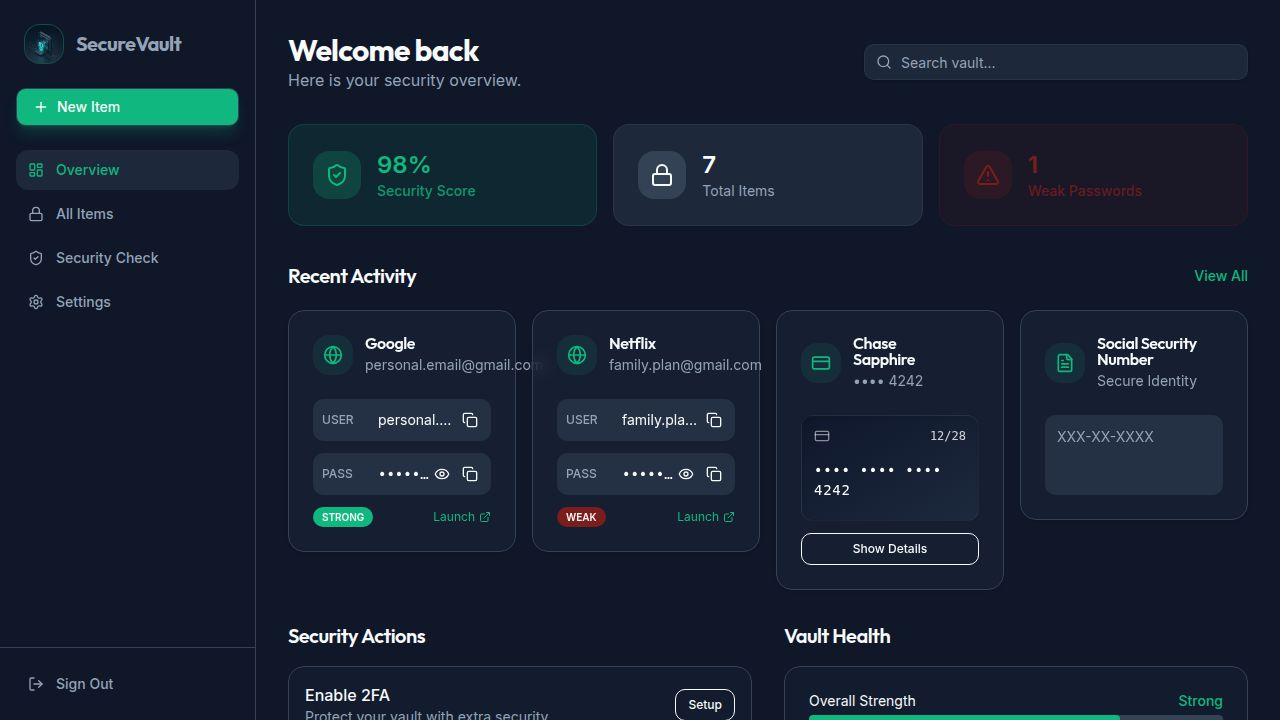
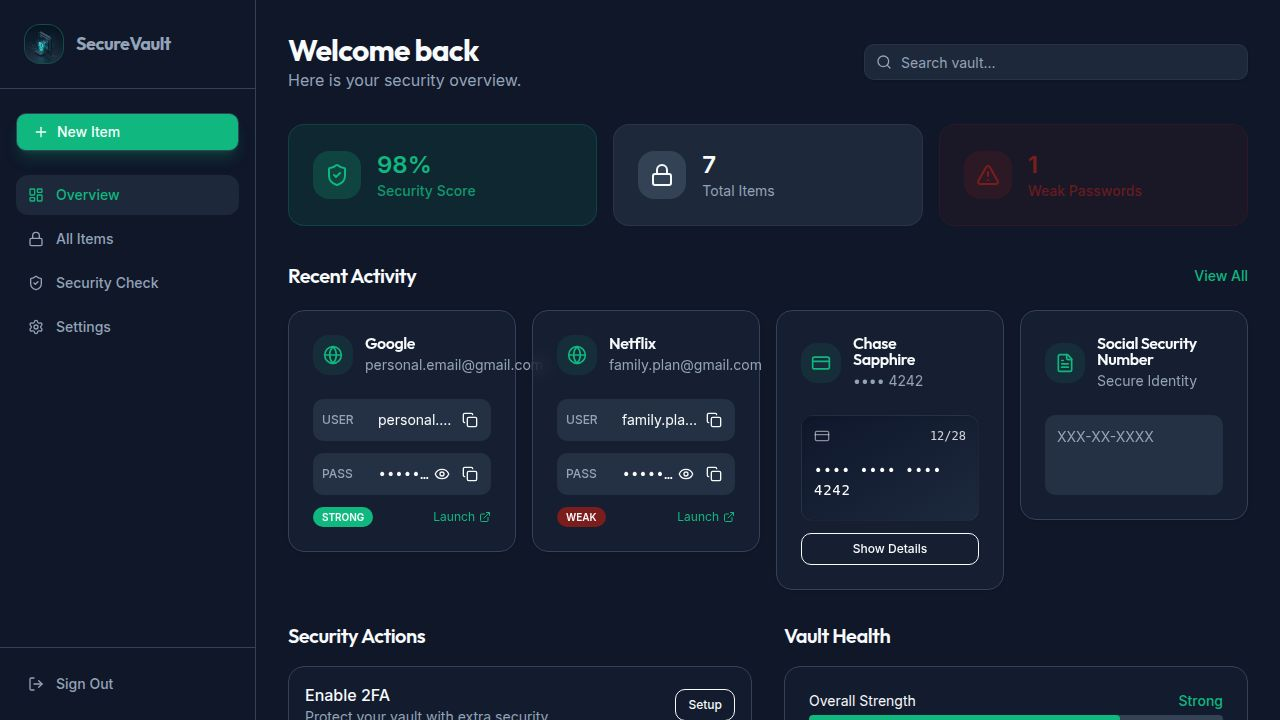
Improve app layout and add functionality to create new items
Integrates an "Add Item" dialog directly into the layout component, refactors sidebar styling to display only the company name, and applies general layout improvements with enhanced visual spacing and borders.

Replit-Commit-Author: Agent
Replit-Commit-Session-Id: 6a2e4771-7680-4b20-bc37-a2bd3f0f02e9
Replit-Commit-Checkpoint-Type: full_checkpoint
Replit-Commit-Event-Id: 6598bca5-cb5f-411d-8bcd-f0eb7fd62443
Replit-Commit-Screenshot-Url: https://storage.googleapis.com/screenshot-production-us-central1/f469e086-288b-45ee-9041-62a81bcc927c/6a2e4771-7680-4b20-bc37-a2bd3f0f02e9/f965USG
Replit-Helium-Checkpoint-Created: true

Changed region(s): [[0.0, 0.1222, 0.1875, 0.4583], [0.0625, 0.0306, 0.1562, 0.0917]]

diff --git a/client/src/components/layout.tsx b/client/src/components/layout.tsx
@@ -7,17 +7,26 @@ import {
   Settings, 
   LogOut, 
   Menu,
-  X,
-  Plus
+  Plus,
+  X
 } from "lucide-react";
 import { Button } from "@/components/ui/button";
 import { Sheet, SheetContent } from "@/components/ui/sheet";
+import { Dialog, DialogContent, DialogDescription, DialogHeader, DialogTitle } from "@/components/ui/dialog";
+import { Input } from "@/components/ui/input";
+import { Label } from "@/components/ui/label";
+import { Select, SelectContent, SelectItem, SelectTrigger, SelectValue } from "@/components/ui/select";
 import { cn } from "@/lib/utils";
+import { useToast } from "@/hooks/use-toast";
 import vaultImage from "@assets/generated_images/abstract_cybersecurity_vault_lock_concept.png";
 
 export default function Layout({ children }: { children: React.ReactNode }) {
   const [location] = useLocation();
   const [isMobileOpen, setIsMobileOpen] = useState(false);
+  const [isAddDialogOpen, setIsAddDialogOpen] = useState(false);
+  const [itemType, setItemType] = useState("login");
+  const [title, setTitle] = useState("");
+  const { toast } = useToast();
 
   const navigation = [
     { name: "Overview", href: "/", icon: LayoutDashboard },
@@ -26,19 +35,46 @@ export default function Layout({ children }: { children: React.ReactNode }) {
     { name: "Settings", href: "/settings", icon: Settings },
   ];
 
+  const handleSubmit = (e: React.FormEvent) => {
+    e.preventDefault();
+    if (!title.trim()) {
+      toast({
+        title: "Error",
+        description: "Please enter a title for your item.",
+        variant: "destructive",
+      });
+      return;
+    }
+
+    toast({
+      title: "Success",
+      description: `New ${itemType} item "${title}" created!`,
+    });
+    
+    setTitle("");
+    setItemType("login");
+    setIsAddDialogOpen(false);
+  };
+
   const SidebarContent = () => (
     <div className="flex flex-col h-full bg-sidebar border-r border-sidebar-border">
-      <div className="p-6 flex items-center gap-3">
-        <div className="h-10 w-10 rounded-xl bg-primary/20 flex items-center justify-center border border-primary/20 overflow-hidden">
-             <img src={vaultImage} alt="Logo" className="w-full h-full object-cover opacity-80" />
+      <div className="p-6 flex items-center gap-3 border-b border-sidebar-border">
+        <div className="h-10 w-10 rounded-xl bg-primary/20 flex items-center justify-center border border-primary/20 overflow-hidden shrink-0">
+          <img src={vaultImage} alt="Logo" className="w-full h-full object-cover opacity-80" />
         </div>
-        <span className="font-heading font-bold text-xl tracking-tight text-sidebar-foreground">
+        <span className="font-heading font-bold text-lg tracking-tight text-sidebar-foreground">
           SecureVault
         </span>
       </div>
 
-      <div className="px-4 mb-6">
-        <Button className="w-full justify-start gap-2 bg-primary hover:bg-primary/90 text-primary-foreground shadow-lg shadow-primary/20 transition-all hover:scale-[1.02]">
+      <div className="px-4 py-6">
+        <Button 
+          onClick={() => {
+            setIsAddDialogOpen(true);
+            setIsMobileOpen(false);
+          }}
+          className="w-full justify-start gap-2 bg-primary hover:bg-primary/90 text-primary-foreground shadow-lg shadow-primary/20 transition-all hover:scale-[1.02]"
+        >
           <Plus className="h-4 w-4" />
           New Item
         </Button>
@@ -59,8 +95,8 @@ export default function Layout({ children }: { children: React.ReactNode }) {
               )}
               onClick={() => setIsMobileOpen(false)}
             >
-                <item.icon className={cn("h-4 w-4", isActive ? "text-primary" : "text-muted-foreground")} />
-                {item.name}
+              <item.icon className={cn("h-4 w-4", isActive ? "text-primary" : "text-muted-foreground")} />
+              {item.name}
             </Link>
           );
         })}
@@ -95,7 +131,7 @@ export default function Layout({ children }: { children: React.ReactNode }) {
         <header className="md:hidden h-16 border-b border-border flex items-center justify-between px-4 bg-background/50 backdrop-blur-md sticky top-0 z-40">
           <div className="flex items-center gap-2">
             <div className="h-8 w-8 rounded-lg bg-primary/20 flex items-center justify-center border border-primary/20 overflow-hidden">
-                <img src={vaultImage} alt="Logo" className="w-full h-full object-cover" />
+              <img src={vaultImage} alt="Logo" className="w-full h-full object-cover" />
             </div>
             <span className="font-heading font-bold text-lg">SecureVault</span>
           </div>
@@ -104,10 +140,118 @@ export default function Layout({ children }: { children: React.ReactNode }) {
           </Button>
         </header>
 
-        <div className="flex-1 p-4 md:p-8 max-w-7xl mx-auto w-full animate-in fade-in duration-500">
+        <div className="flex-1 p-4 md:p-8 max-w-7xl mx-auto w-full">
           {children}
         </div>
       </main>
+
+      {/* Add Item Dialog */}
+      <Dialog open={isAddDialogOpen} onOpenChange={setIsAddDialogOpen}>
+        <DialogContent className="sm:max-w-[425px]">
+          <DialogHeader>
+            <DialogTitle>Add New Item</DialogTitle>
+            <DialogDescription>
+              Create a new credential or document in your SecureVault.
+            </DialogDescription>
+          </DialogHeader>
+          
+          <form onSubmit={handleSubmit} className="space-y-6">
+            <div className="space-y-2">
+              <Label htmlFor="type">Item Type</Label>
+              <Select value={itemType} onValueChange={setItemType}>
+                <SelectTrigger id="type" className="bg-card border-border/50">
+                  <SelectValue />
+                </SelectTrigger>
+                <SelectContent>
+                  <SelectItem value="login">🔑 Login</SelectItem>
+                  <SelectItem value="card">💳 Credit Card</SelectItem>
+                  <SelectItem value="note">📝 Secure Note</SelectItem>
+                  <SelectItem value="wifi">📶 WiFi</SelectItem>
+                </SelectContent>
+              </Select>
+            </div>
+
+            <div className="space-y-2">
+              <Label htmlFor="title">Title</Label>
+              <Input
+                id="title"
+                placeholder="e.g., Gmail, My Visa Card"
+                value={title}
+                onChange={(e) => setTitle(e.target.value)}
+                className="bg-card border-border/50"
+                autoFocus
+              />
+            </div>
+
+            {itemType === "login" && (
+              <>
+                <div className="space-y-2">
+                  <Label htmlFor="username">Username or Email</Label>
+                  <Input
+                    id="username"
+                    placeholder="your@email.com"
+                    className="bg-card border-border/50"
+                  />
+                </div>
+                <div className="space-y-2">
+                  <Label htmlFor="password">Password</Label>
+                  <Input
+                    id="password"
+                    type="password"
+                    placeholder="••••••••••"
+                    className="bg-card border-border/50"
+                  />
+                </div>
+              </>
+            )}
+
+            {itemType === "card" && (
+              <>
+                <div className="space-y-2">
+                  <Label htmlFor="card-number">Card Number</Label>
+                  <Input
+                    id="card-number"
+                    placeholder="1234 5678 9012 3456"
+                    className="bg-card border-border/50 font-mono"
+                  />
+                </div>
+                <div className="grid grid-cols-2 gap-4">
+                  <div className="space-y-2">
+                    <Label htmlFor="expiry">Expiry Date</Label>
+                    <Input
+                      id="expiry"
+                      placeholder="MM/YY"
+                      className="bg-card border-border/50"
+                    />
+                  </div>
+                  <div className="space-y-2">
+                    <Label htmlFor="cvv">CVV</Label>
+                    <Input
+                      id="cvv"
+                      type="password"
+                      placeholder="•••"
+                      className="bg-card border-border/50"
+                    />
+                  </div>
+                </div>
+              </>
+            )}
+
+            <div className="flex gap-3 justify-end pt-4">
+              <Button
+                type="button"
+                variant="outline"
+                onClick={() => setIsAddDialogOpen(false)}
+              >
+                Cancel
+              </Button>
+              <Button type="submit" className="bg-primary hover:bg-primary/90">
+                Add Item
+              </Button>
+            </div>
+          </form>
+        </DialogContent>
+      </Dialog>
     </div>
   );
 }

diff --git a/client/src/pages/dashboard.tsx b/client/src/pages/dashboard.tsx
@@ -8,7 +8,7 @@ import { motion } from "framer-motion";
 export default function Dashboard() {
   const recentItems = MOCK_VAULT_ITEMS.slice(0, 4);
   const weakPasswords = MOCK_VAULT_ITEMS.filter(i => i.strength === 'weak').length;
-  const reusedPasswords = 2; // Mock statistic
+  const reusedPasswords = 2;
 
   const container = {
     hidden: { opacity: 0 },
@@ -26,7 +26,7 @@ export default function Dashboard() {
   };
 
   return (
-    <div className="space-y-8">
+    <div className="space-y-8 animate-in fade-in duration-500">
       <div className="flex flex-col md:flex-row md:items-center justify-between gap-4">
         <div>
           <h1 className="text-3xl font-bold text-foreground">Welcome back</h1>
@@ -43,7 +43,7 @@ export default function Dashboard() {
 
       {/* Stats Grid */}
       <div className="grid grid-cols-1 md:grid-cols-3 gap-4">
-        <div className="bg-primary/10 border border-primary/20 p-6 rounded-2xl flex items-center gap-4">
+        <div className="bg-primary/10 border border-primary/20 p-6 rounded-2xl flex items-center gap-4 hover:shadow-lg transition-shadow">
           <div className="p-3 bg-primary/20 rounded-xl text-primary">
             <ShieldCheck className="h-6 w-6" />
           </div>
@@ -53,7 +53,7 @@ export default function Dashboard() {
           </div>
         </div>
 
-        <div className="bg-card border border-border/50 p-6 rounded-2xl flex items-center gap-4">
+        <div className="bg-card border border-border/50 p-6 rounded-2xl flex items-center gap-4 hover:shadow-lg transition-shadow">
           <div className="p-3 bg-muted rounded-xl text-foreground">
             <Lock className="h-6 w-6" />
           </div>
@@ -63,7 +63,7 @@ export default function Dashboard() {
           </div>
         </div>
 
-        <div className="bg-destructive/10 border border-destructive/20 p-6 rounded-2xl flex items-center gap-4">
+        <div className="bg-destructive/10 border border-destructive/20 p-6 rounded-2xl flex items-center gap-4 hover:shadow-lg transition-shadow">
           <div className="p-3 bg-destructive/20 rounded-xl text-destructive">
             <AlertTriangle className="h-6 w-6" />
           </div>
@@ -97,14 +97,14 @@ export default function Dashboard() {
       <div className="grid grid-cols-1 md:grid-cols-2 gap-8">
         <div className="space-y-4">
             <h2 className="text-xl font-semibold">Security Actions</h2>
-            <div className="p-4 rounded-xl border border-border bg-card/30 flex items-center justify-between">
+            <div className="p-4 rounded-xl border border-border bg-card/30 hover:border-border hover:shadow-md transition-all flex items-center justify-between">
                 <div>
                     <div className="font-medium">Enable 2FA</div>
                     <div className="text-sm text-muted-foreground">Protect your vault with extra security</div>
                 </div>
                 <Button variant="outline" size="sm">Setup</Button>
             </div>
-             <div className="p-4 rounded-xl border border-border bg-card/30 flex items-center justify-between">
+             <div className="p-4 rounded-xl border border-border bg-card/30 hover:border-border hover:shadow-md transition-all flex items-center justify-between">
                 <div>
                     <div className="font-medium">Import Passwords</div>
                     <div className="text-sm text-muted-foreground">Import from Chrome or CSV</div>
